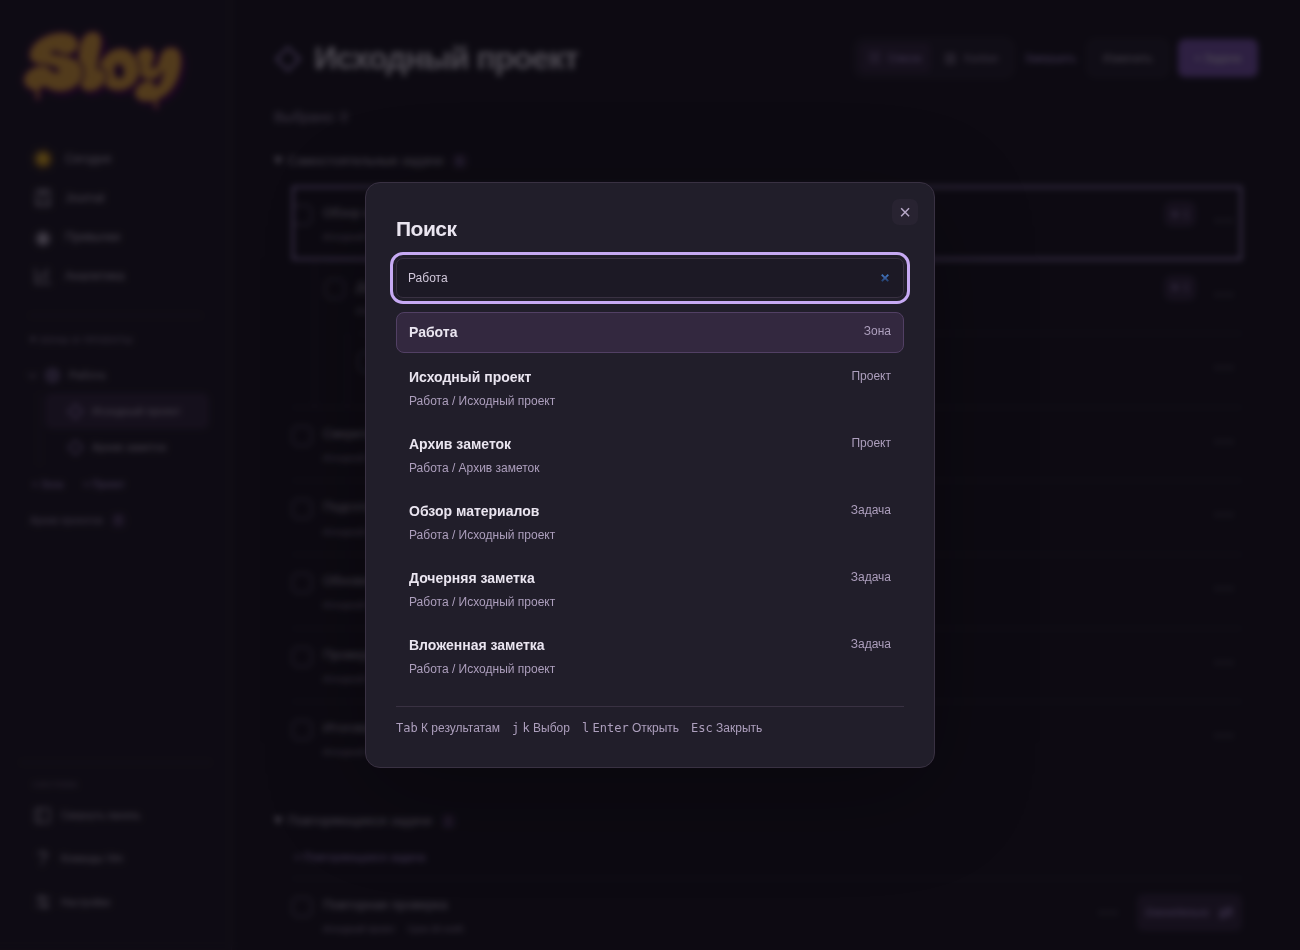
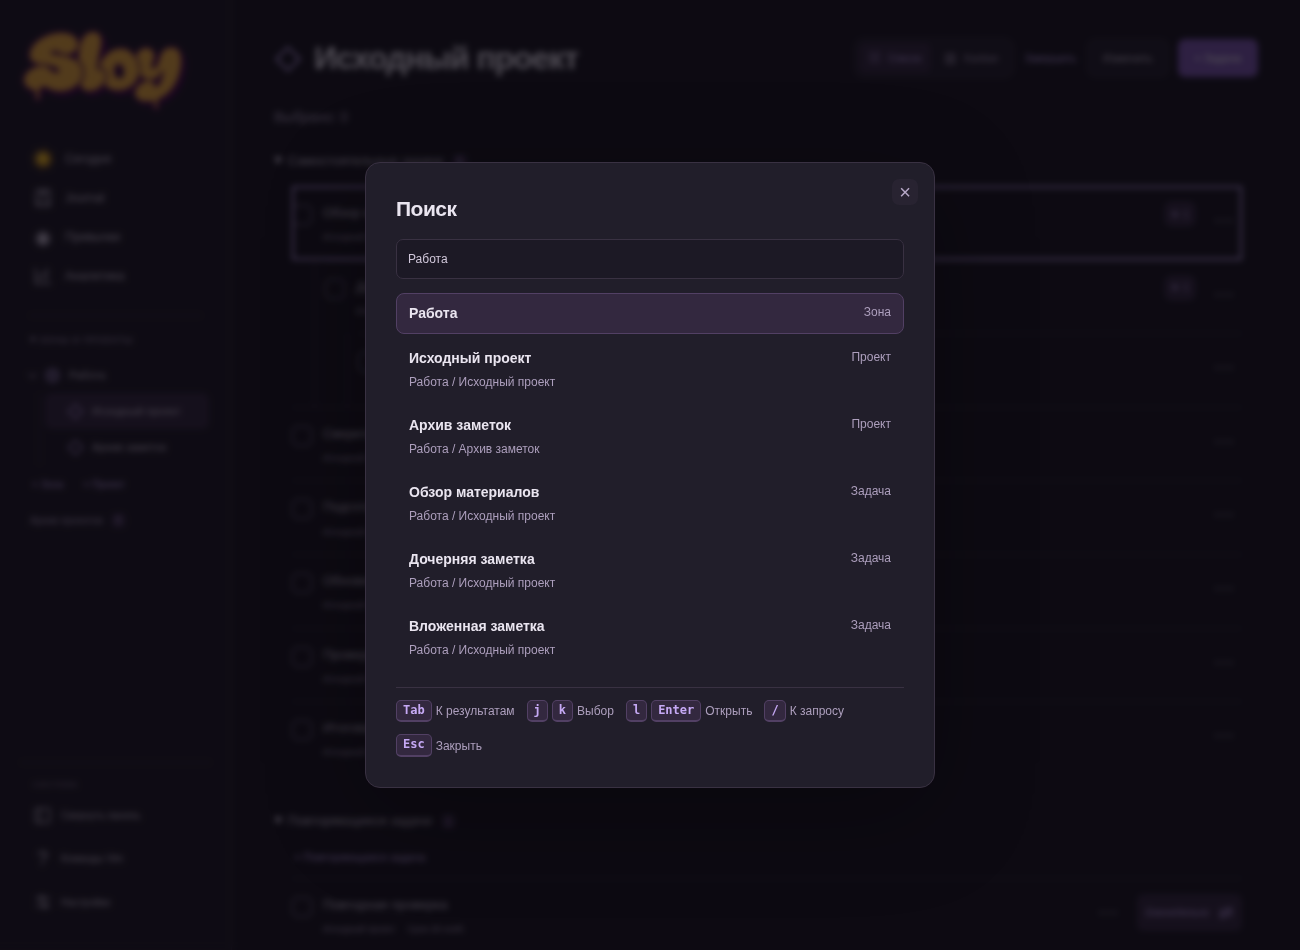
Focus search rows and distinguish Vim keycaps

diff --git a/dist/workspace-search.js b/dist/workspace-search.js
@@ -30,20 +30,22 @@ export function workspaceSearchKey(event,inResults){
 }
 
 export function showWorkspaceSearch(openModal,closeModal,find,open){
- openModal('<div class="workspace-search"><h2 id="workspace-search-title">Поиск</h2><input type="search" class="field" role="combobox" aria-label="Поиск проектов, зон и задач" aria-controls="workspace-search-results" aria-expanded="true" aria-autocomplete="list" placeholder="Проект, зона или задача" autocomplete="off"><div id="workspace-search-results" role="listbox" tabindex="-1" aria-label="Результаты поиска"></div><p class="form-note workspace-search-empty" role="status" hidden>Ничего не найдено</p><div class="workspace-search-keys"><span><kbd>Tab</kbd> К результатам</span><span><kbd>j</kbd> <kbd>k</kbd> Выбор</span><span><kbd>l</kbd> <kbd>Enter</kbd> Открыть</span><span><kbd>Esc</kbd> Закрыть</span></div></div>');
+ openModal('<div class="workspace-search"><h2 id="workspace-search-title">Поиск</h2><input type="search" class="field" role="combobox" aria-label="Поиск проектов, зон и задач" aria-controls="workspace-search-results" aria-expanded="true" aria-autocomplete="list" placeholder="Проект, зона или задача" autocomplete="off"><div id="workspace-search-results" role="listbox" aria-label="Результаты поиска"></div><p class="form-note workspace-search-empty" role="status" hidden>Ничего не найдено</p><div class="workspace-search-keys"><span><kbd>Tab</kbd> К результатам</span><span><kbd>j</kbd> <kbd>k</kbd> Выбор</span><span><kbd>l</kbd> <kbd>Enter</kbd> Открыть</span><span><kbd>/</kbd> К запросу</span><span><kbd>Esc</kbd> Закрыть</span></div></div>');
  const panel=document.querySelector('.workspace-search'),input=panel.querySelector('input'),list=panel.querySelector('[role=listbox]');
  let results=[],index=0;
  function highlight(next){
   index=next;
   const option=list.children[index];
-  for(const [i,row] of [...list.children].entries())row.setAttribute('aria-selected',String(i===index));
+  for(const [i,row] of [...list.children].entries()){
+   const active=i===index;
+   row.tabIndex=active?0:-1;
+   row.setAttribute('aria-selected',String(active));
+  }
   if(option){
    input.setAttribute('aria-activedescendant',option.id);
-   list.setAttribute('aria-activedescendant',option.id);
    option.scrollIntoView({block:'nearest'});
   }else{
    input.removeAttribute('aria-activedescendant');
-   list.removeAttribute('aria-activedescendant');
   }
  }
  function render(){
@@ -56,13 +58,13 @@ export function showWorkspaceSearch(openModal,closeModal,find,open){
    row.addEventListener('click',()=>open(result));
    return row;
   }));
-  list.tabIndex=results.length?0:-1;
   panel.querySelector('.workspace-search-empty').hidden=results.length>0;
   highlight(0);
  }
  input.addEventListener('input',render);
+ input.addEventListener('focus',()=>highlight(0));
  panel.addEventListener('keydown',event=>{
-  const inResults=event.target===list;
+  const inResults=event.target.parentElement===list;
   if(!inResults&&event.target!==input)return;
   const command=workspaceSearchKey(event,inResults);
   if(!command||!results.length&&!['close','edit'].includes(command))return;
@@ -71,8 +73,8 @@ export function showWorkspaceSearch(openModal,closeModal,find,open){
   else if(command==='edit')input.focus();
   else if(command==='open'){if(!event.repeat)open(results[index]);}
   else{
-   highlight(Math.min(results.length-1,Math.max(0,index+(command==='down'?1:-1))));
-   if(!inResults)list.focus({preventScroll:true});
+   const next=inResults?Math.min(results.length-1,Math.max(0,index+(command==='down'?1:-1))):0;
+   highlight(next);list.children[next].focus({preventScroll:true});
   }
  });
  render();input.focus();

diff --git a/dist/vim-navigation.js b/dist/vim-navigation.js
@@ -47,12 +47,16 @@ export function vimMenuKey(id){
 }
 
 export function vimHelpHTML(){
- const section=(heading,commands)=>'<section><h3>'+heading+'</h3><dl class="vim-commands">'+commands.map(([,key,label])=>'<dt><kbd>'+key+'</kbd></dt><dd>'+label+'</dd>').join('')+'</dl></section>';
+ const keys=binding=>binding.split(' / ').map(sequence=>
+  sequence.split(' ').map(key=>'<kbd>'+key+'</kbd>').join(' ')).join(' <span class="vim-key-separator">/</span> ');
+ const section=(heading,commands)=>'<section><h3>'+heading+'</h3><dl class="vim-commands">'+
+  commands.map(([,key,label])=>'<dt>'+keys(key)+'</dt><dd>'+label+'</dd>').join('')+'</dl></section>';
  return '<div class="vim-help"><h2>Команды Vim</h2><p>Команды используют физические клавиши. На русской раскладке клавиша точки открывает поиск, а с Shift — справку. В полях ввода работает выбранная раскладка.</p>'+
   '<p>Рамка отмечает активную строку, заливка — выделение. Отметьте задачи пробелом, нажмите m, выберите назначение и подтвердите. Ctrl+Z отменяет перенос.</p>'+
   '<div class="vim-help-grid">'+section('Список задач',listCommands)+'<div>'+
-  section('Везде',[...destinations,['search','/','Поиск проектов, зон и задач. Tab к результатам, j/k для выбора, l или Enter для открытия'],['explorer','Space e','Дерево проектов из Normal'],['help','?','Показать команды'],['escape','Esc','Закрыть верхний слой или вернуться в Normal'],['add','a','Создать задачу вне дерева']])+
-  section('Дерево проектов',[['move','j / k','Следующая или предыдущая строка'],['branch','h','Свернуть ветвь или перейти к родителю'],['edges','g g / G','Первая или последняя строка'],['open','l / Enter','Открыть проект или зону'],['add','a','Создать проект или подпроект']])+'</div></div>'+
+  section('Везде',[...destinations,['search','/','Поиск проектов, зон и задач'],['explorer','Space e','Дерево проектов из Normal'],['help','?','Показать команды'],['escape','Esc','Закрыть верхний слой или вернуться в Normal'],['add','a','Создать задачу вне дерева']])+
+  section('Дерево проектов',[['move','j / k','Следующая или предыдущая строка'],['branch','h','Свернуть ветвь или перейти к родителю'],['edges','g g / G','Первая или последняя строка'],['open','l / Enter','Открыть проект или зону'],['add','a','Создать проект или подпроект']])+
+  section('Результаты поиска',[['focus','Tab','Перейти к результатам'],['move','j / k','Выбрать результат'],['open','l / Enter','Открыть результат'],['edit','/','Вернуться к запросу'],['close','Esc','Закрыть поиск']])+'</div></div>'+
   '<div class="modal-actions"><button type="button" class="primary-button" data-action="close-modal">Готово</button></div></div>';
 }
 

diff --git a/dist/vim-navigation.css b/dist/vim-navigation.css
@@ -82,7 +82,6 @@ main[tabindex="-1"]:focus {
  display:grid;grid-template-columns:minmax(0,1fr) auto;gap:4px 12px;
  padding:9px 12px;border:1px solid transparent;border-radius:8px;cursor:pointer;
 }
-#workspace-search-results [role="option"]:hover,
 #workspace-search-results [aria-selected="true"] {
  border-color:var(--accent-border);background:var(--accent-soft);
 }
@@ -97,4 +96,24 @@ main[tabindex="-1"]:focus {
 }
 .workspace-search-keys {
  display:flex;flex-wrap:wrap;gap:12px;border-top:1px solid var(--line);padding-top:12px;
+}
+#workspace-search-results [role="option"]:focus {
+ outline:none;
+}
+.workspace-search-keys > span {
+ display:inline-flex;align-items:center;gap:4px;
+}
+.vim-commands dt {
+ white-space:nowrap;
+}
+.vim-commands dd {
+ color:var(--text);line-height:1.35;
+}
+.vim-commands kbd,.workspace-search-keys kbd {
+ display:inline-grid;place-items:center;min-width:1.65em;padding:2px 6px;
+ border:1px solid var(--accent-border);border-bottom-width:2px;border-radius:5px;
+ background:var(--accent-soft);color:var(--accent-text);font:600 12px/1.3 monospace;
+}
+.vim-key-separator {
+ color:var(--muted);
 }
